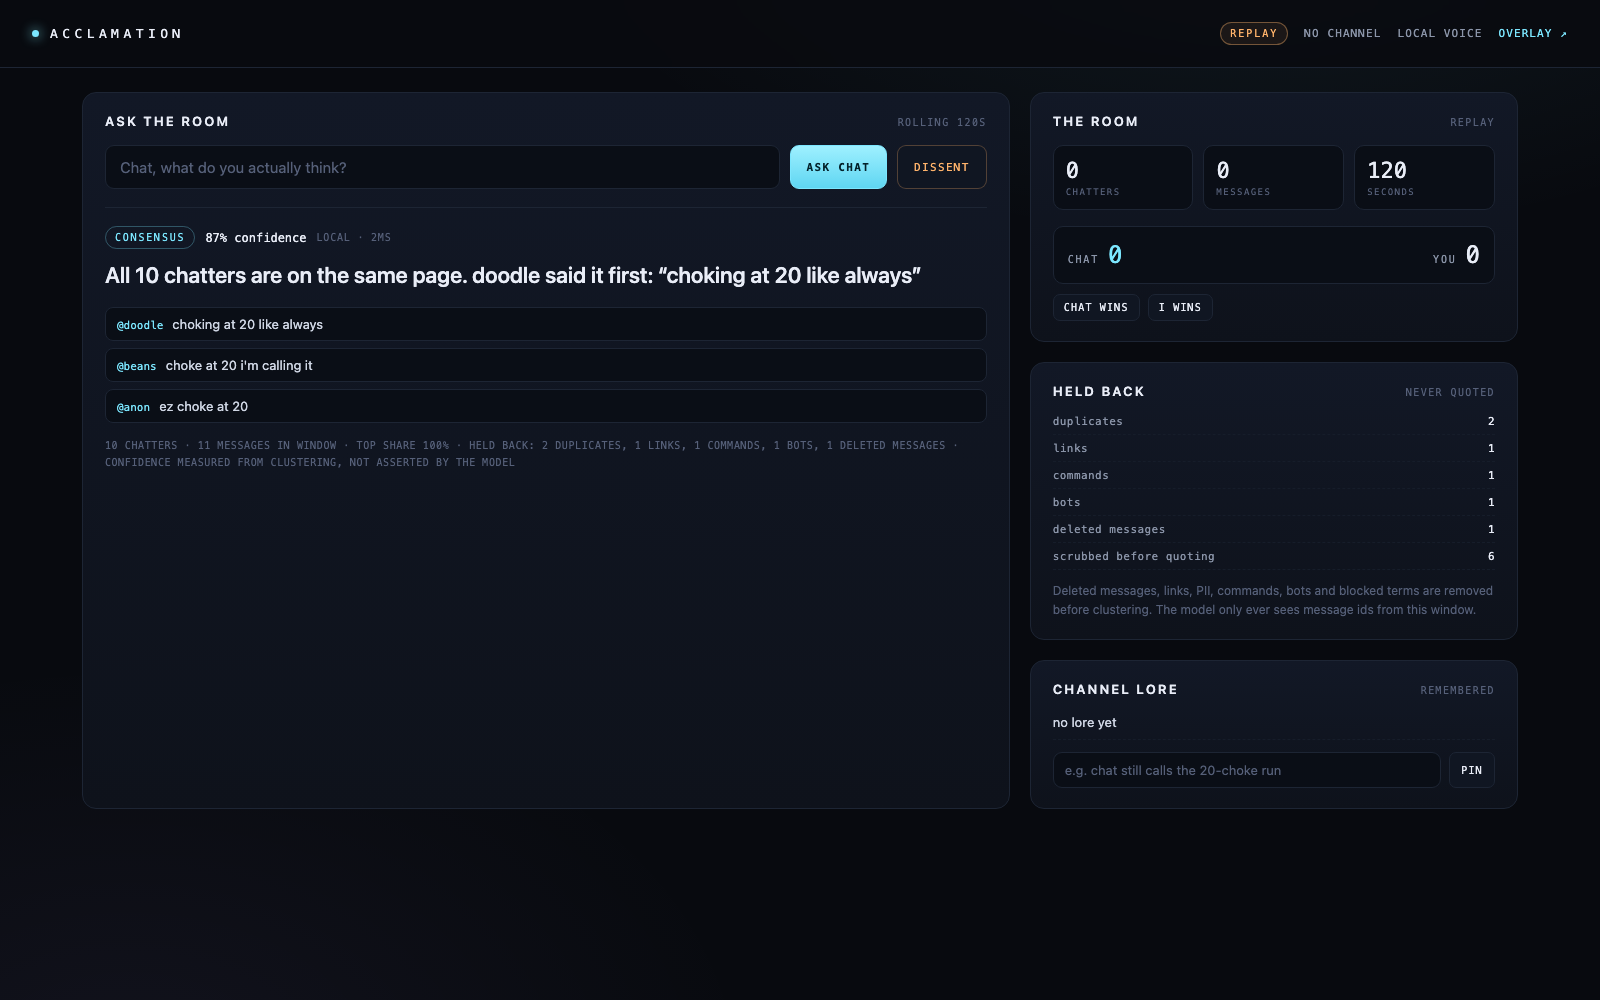
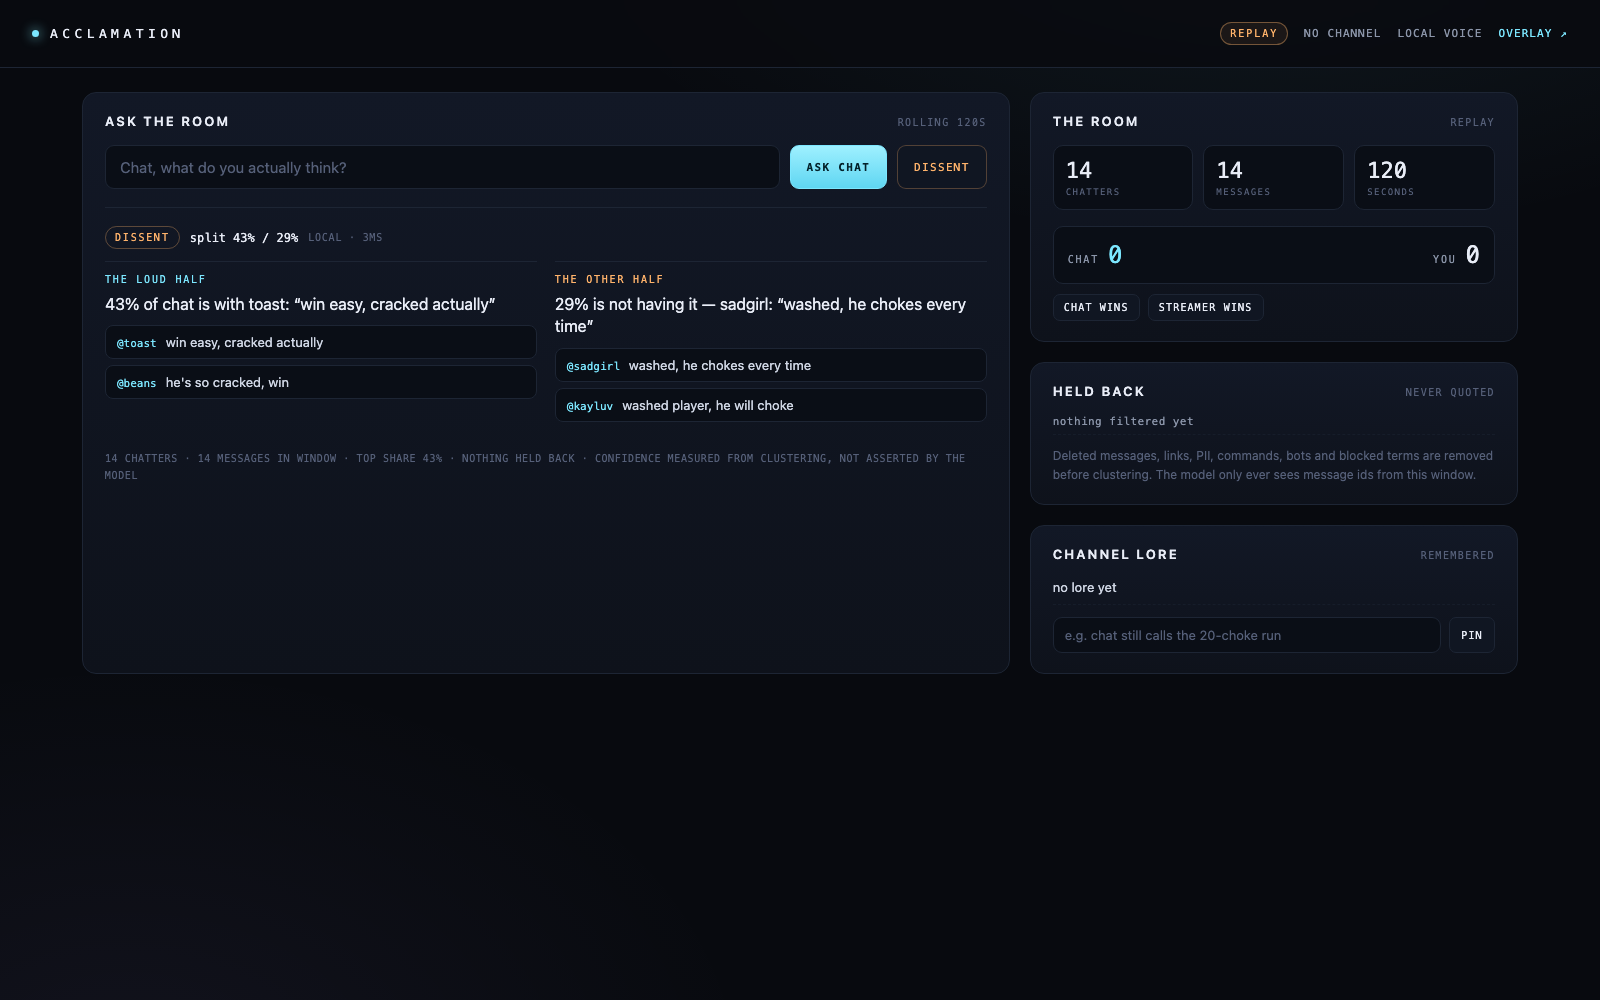
docs: refresh dashboard capture and show the control room in the README

diff --git a/README.md b/README.md
@@ -19,6 +19,10 @@ argue with each other.
 
 <p align="center"><em>Split mode: two faces, two voices, two colours. 43% vs 29%.</em></p>
 
+![Acclamation control room](docs/dashboard.png)
+
+<p align="center"><em>The control room: ask the room, force a dissent, pin lore, and see exactly what was held back.</em></p>
+
 ---
 
 ## Why this is not a chatbot
